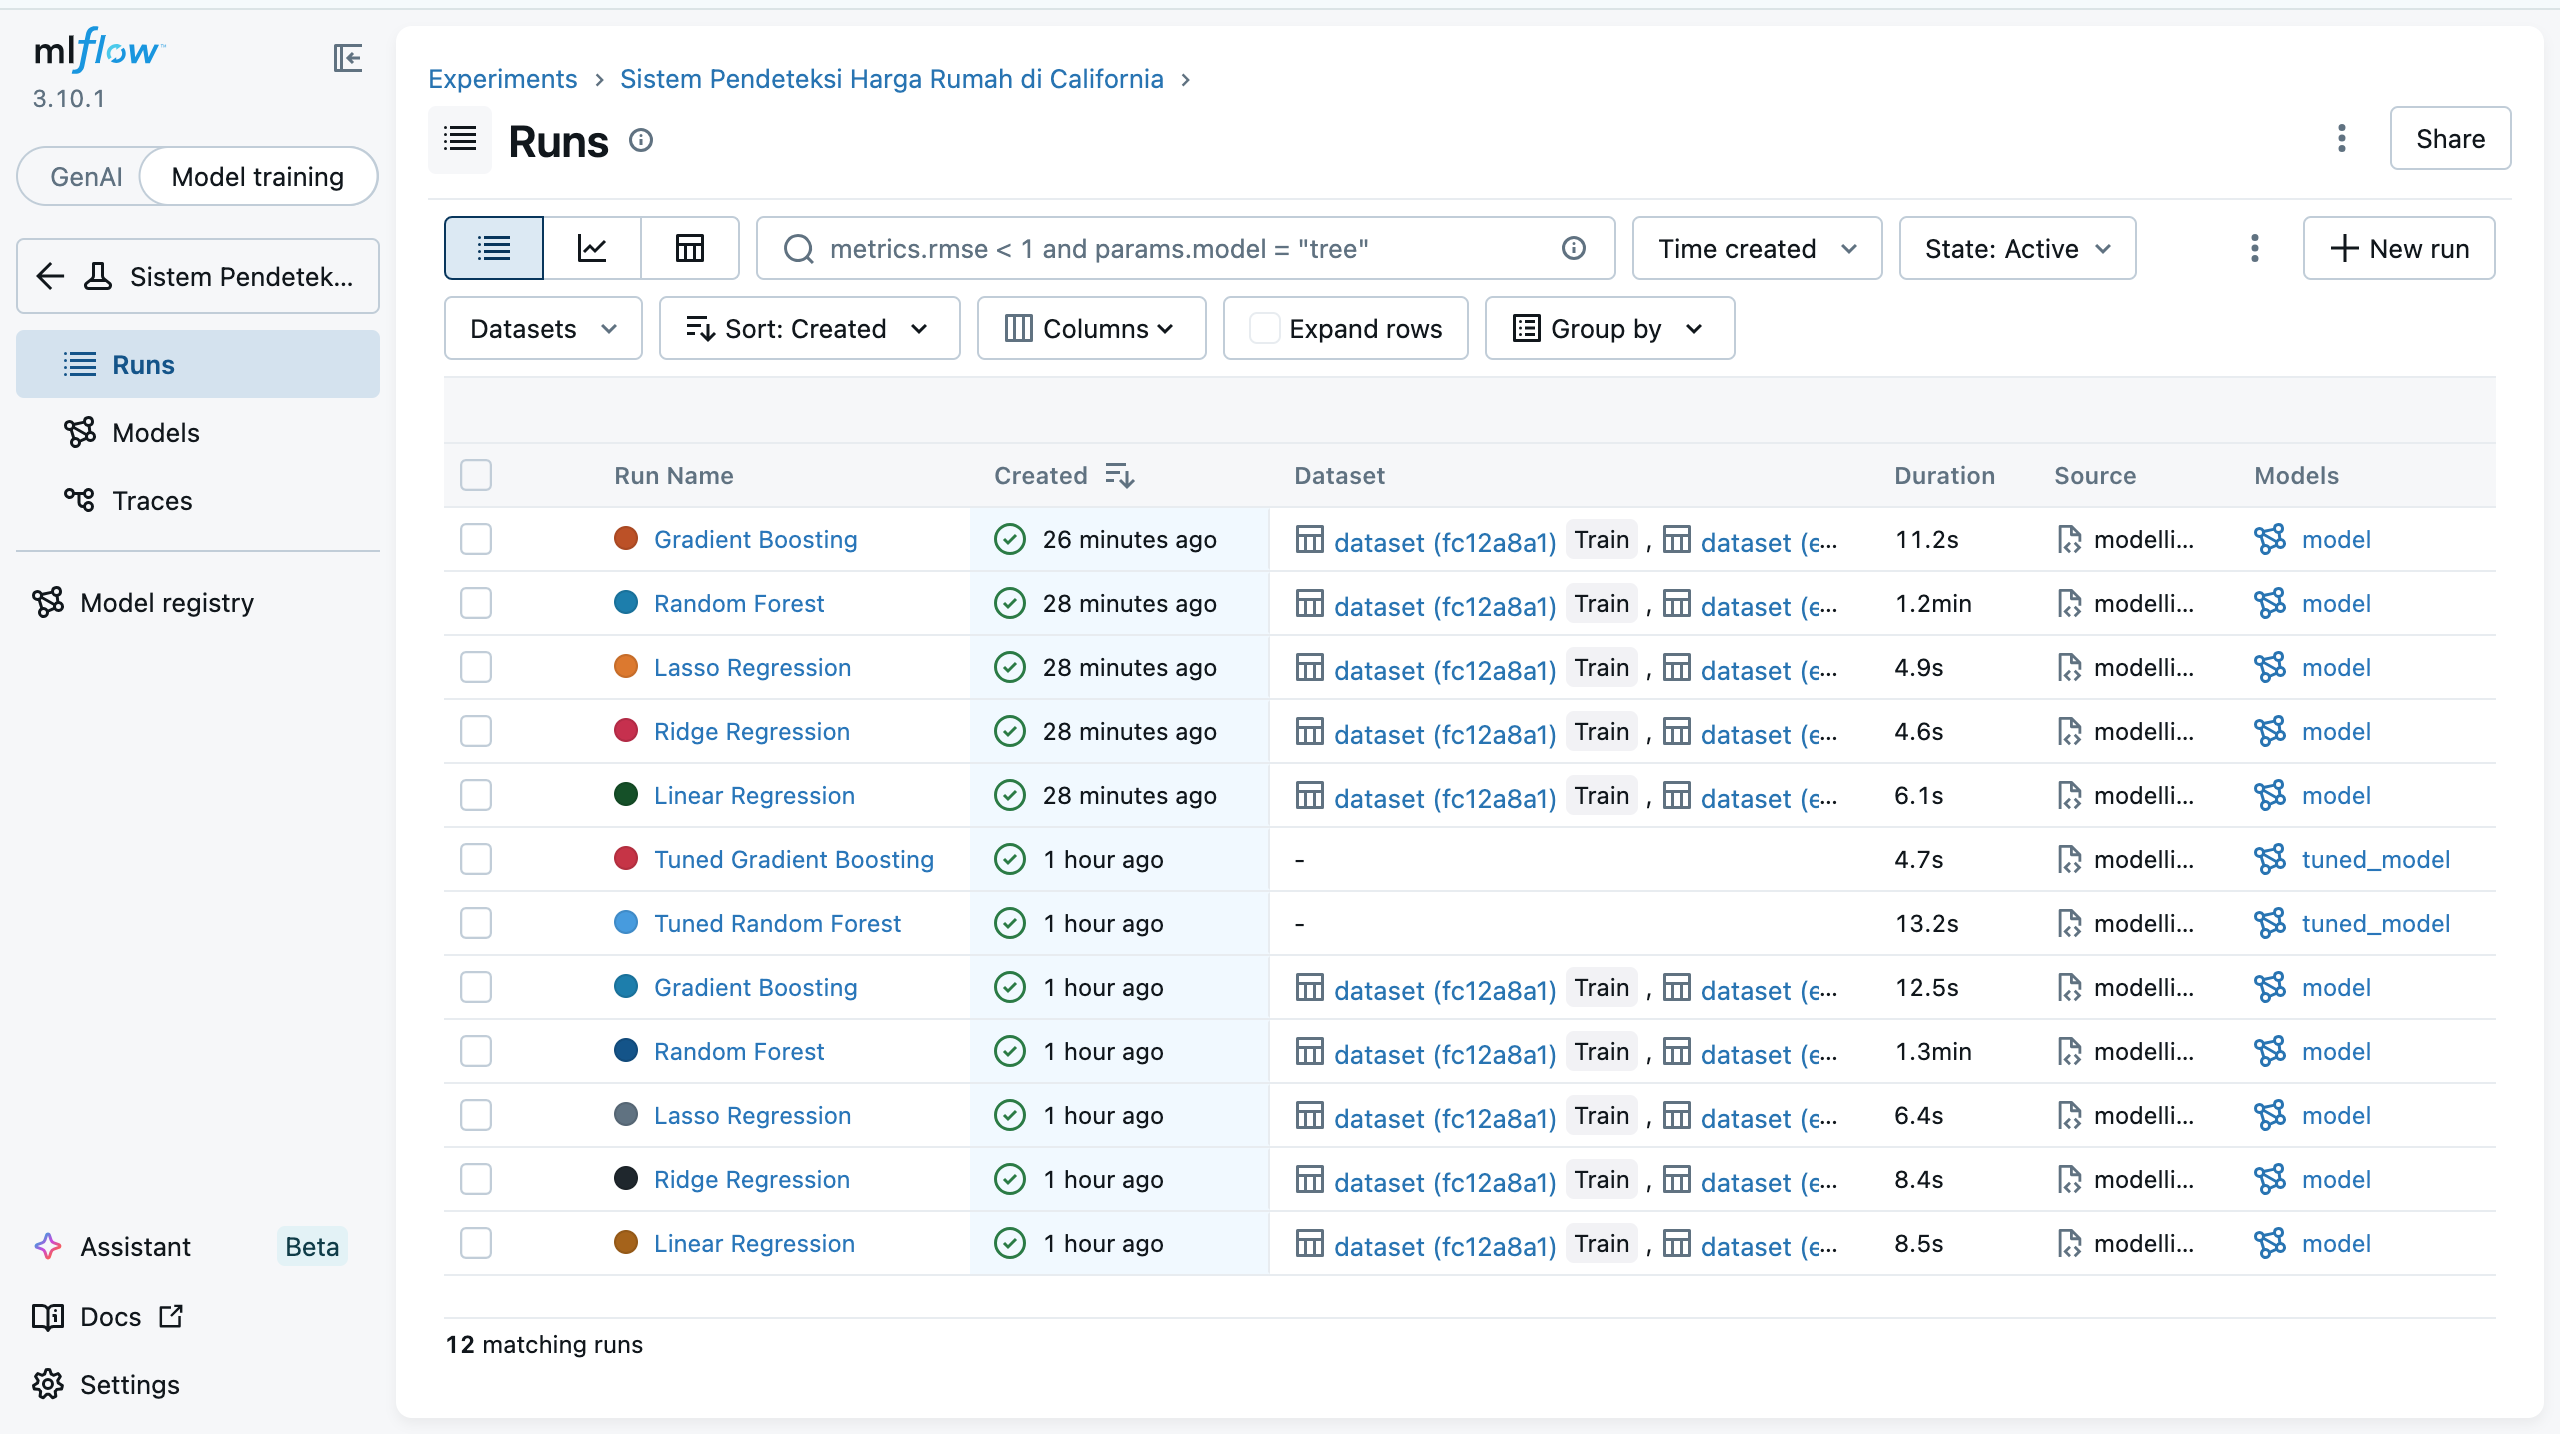
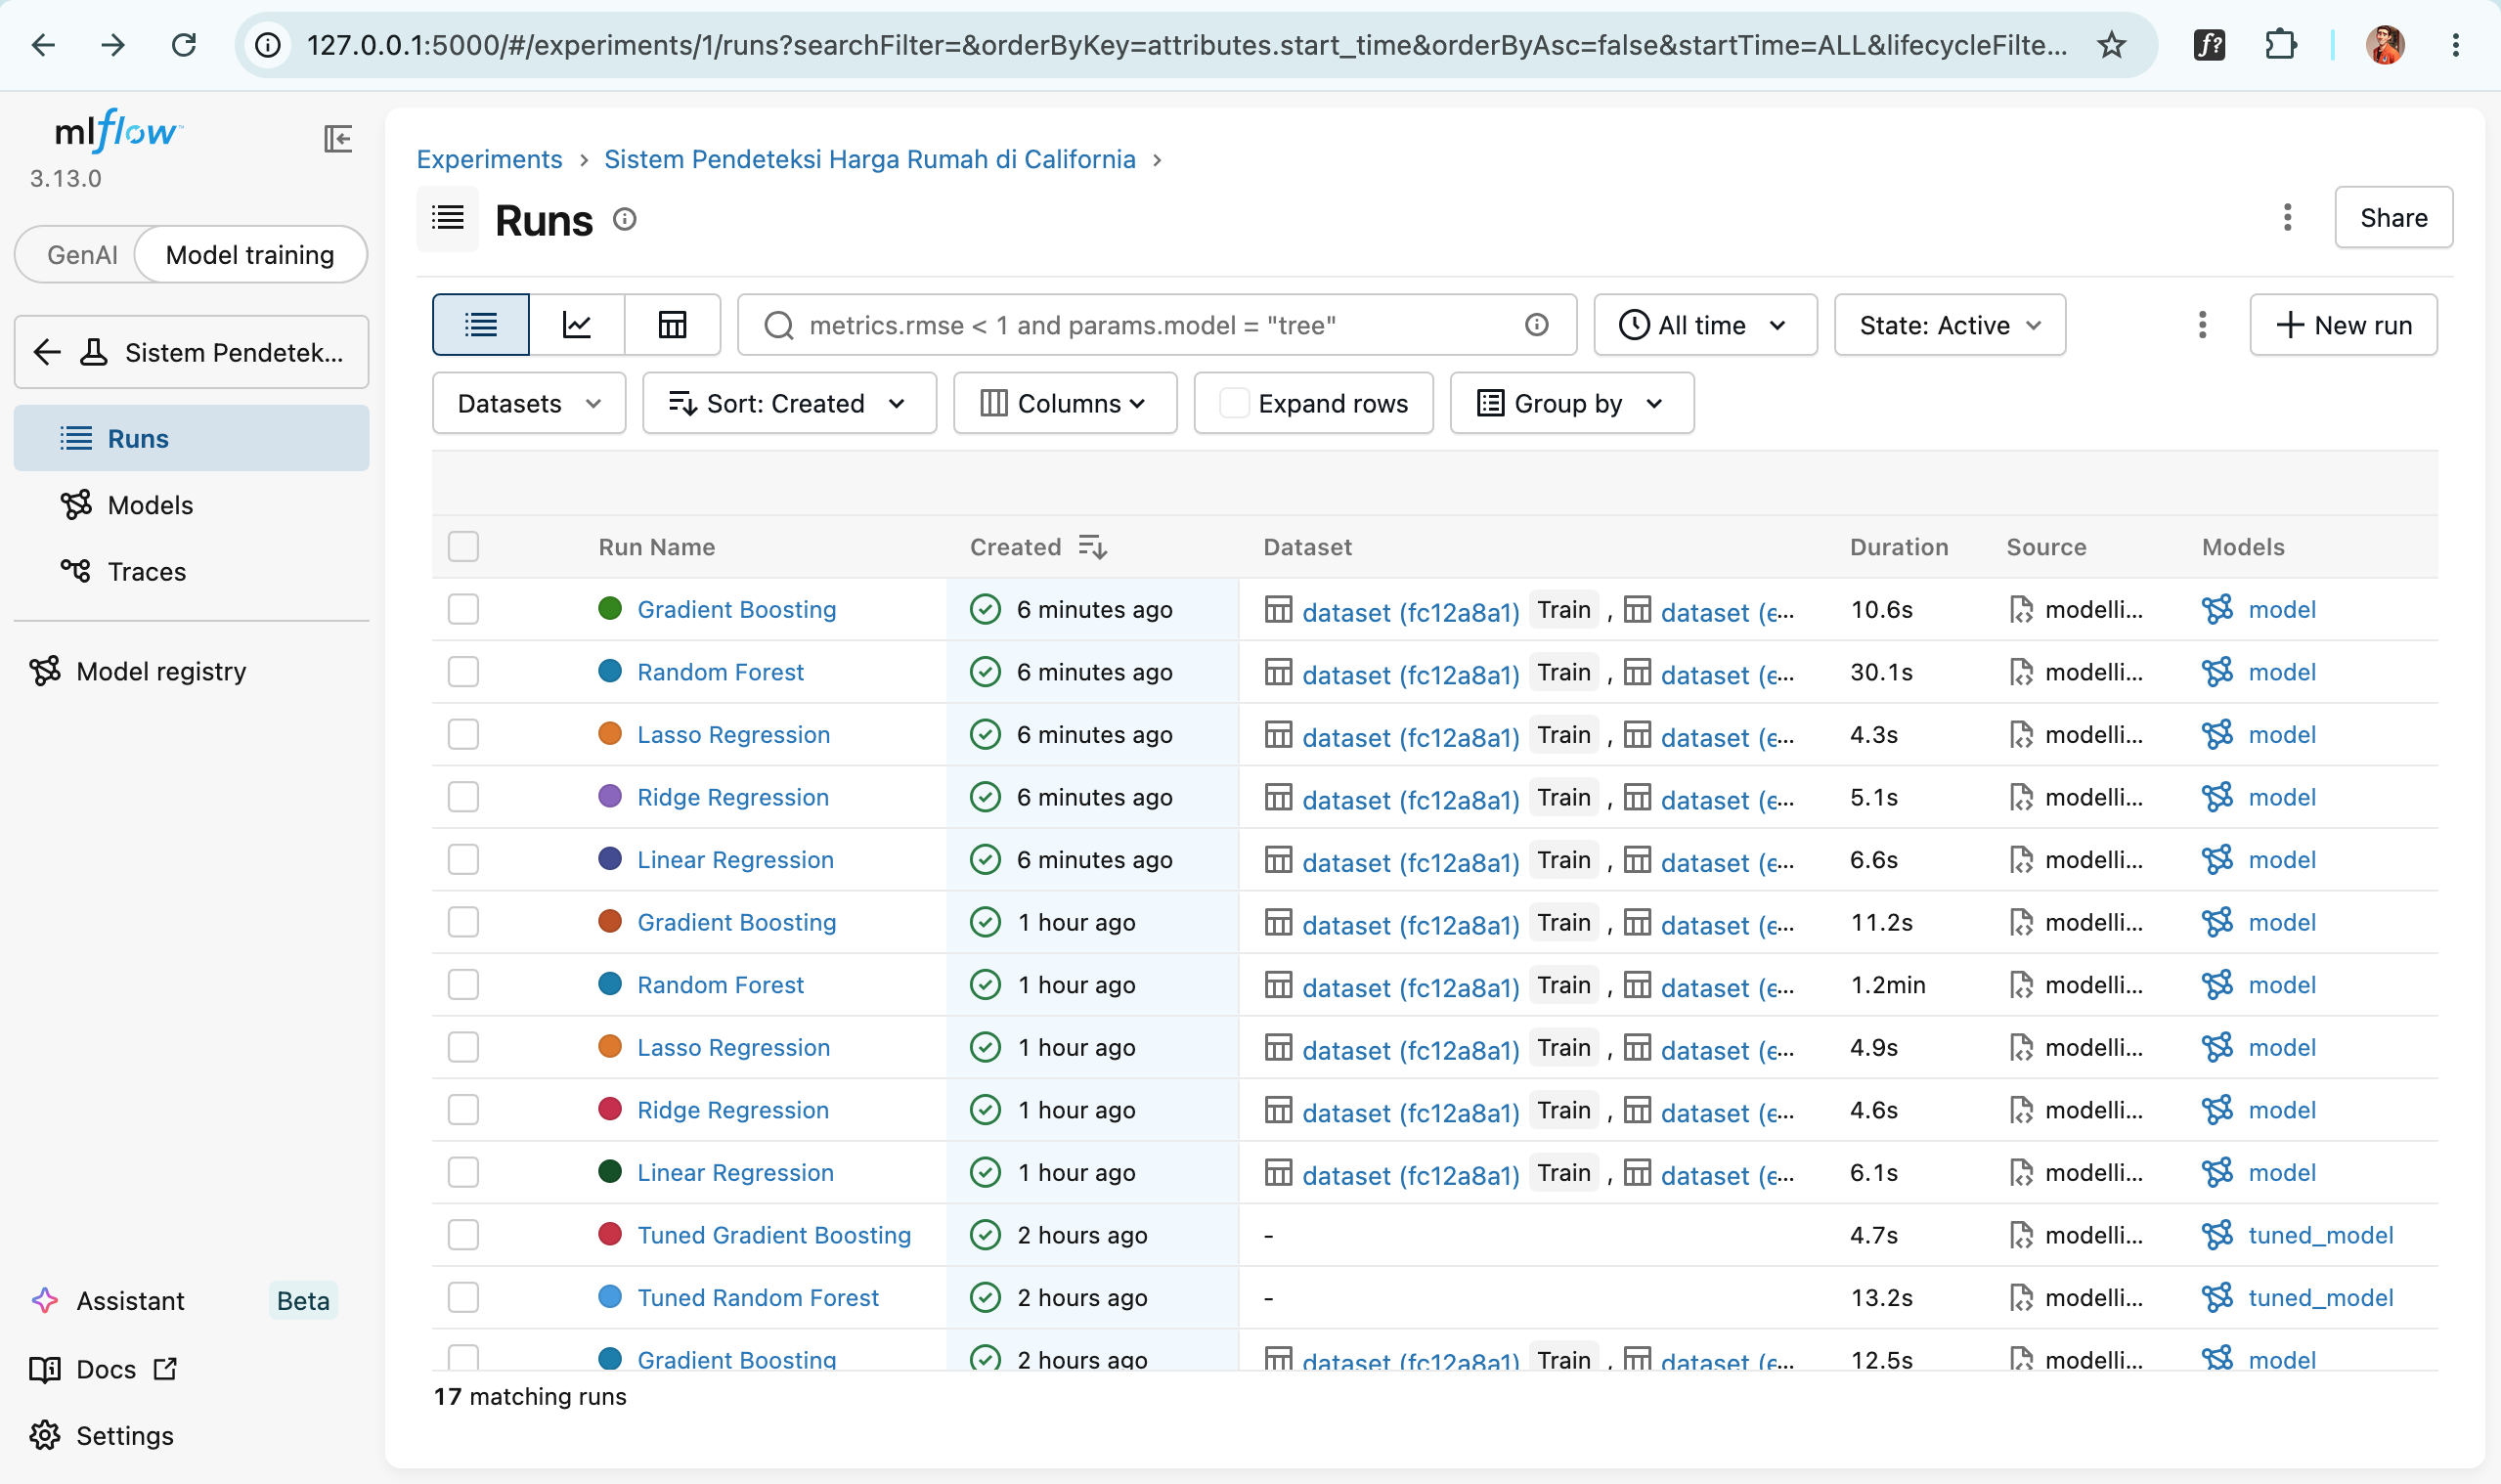
perubahan dir

diff --git a/README.md b/README.md
@@ -1,0 +1,43 @@
+# 🏡 Sistem Pendeteksi Harga Rumah di California (End-to-End MLOps Pipeline)
+
+Proyek ini merupakan implementasi pipa MLOps (_Machine Learning Operations_) lengkap dari hulu ke hilir, mulai dari tahap _preprocessing_ data, eksperimen otomatis & _hyperparameter tuning_ menggunakan MLflow, otomatisasi pengujian dengan GitHub Actions (CI), hingga tahap produksi berupa _serving_ model kustom dan _monitoring_ real-time berbasis Prometheus & Grafana.
+
+---
+
+## Pengembang
+
+- **Nama:** Hervan Wandri
+- **Peran:** MLOps / Data Engineer
+- **Lingkungan Sistem:** macOS (MacBook Pro 2015) & Python 3.11
+
+---
+
+## 📁 Struktur Direktori Proyek
+
+```text
+SMSML_Wandrie/
+├── README.md                           <- Panduan utama proyek (File ini)
+├── Eksperimen_SML_Wandrie.txt          <- Laporan metrik & kesimpulan model terbaik
+├── Workflow-CI.txt                     <- Dokumentasi alur kerja otomatisasi CI
+├── Screenhoot_artifak.jpg
+├── California_raw/
+│   └── california_housing.csv          <- Berisi file dataset yang digunakan
+├── Membangun_model/
+│   ├── modelling.py                    <- Base training (5 algoritma dasar)
+│   ├── modelling_tuning.py             <- Hyperparameter Tuning (GridSearchCV)
+│   ├── requirements.txt                <- Daftar dependensi pustaka Python
+│   └── screenshoot_dashboard.jpg       <- Bukti antarmuka MLflow Tracking
+├── Monitoring dan Logging/
+│    ├── 1.bukti_serving                 <- Log/bukti endpoint exporter aktif
+│    ├── 2.prometheus.yml                <- Konfigurasi target scraping Prometheus
+│    ├── 3.prometheus_exporter.py        <- Script kustom penyiaran metrik (psutil)
+│    ├── 4.bukti monitoring Prometheus/  <- Screenshot metrik pada Prometheus UI
+│    ├── 5.bukti monitoring Grafana/     <- Screenshot dashboard visualisasi RAM/CPU
+│    ├── 6.bukti alerting Grafana/       <- Screenshot pemicuan alarm (Alerting Firing)
+│    └── 7.Inference.py                  <- Script pengujian prediksi data tunggal
+└── Membangun_model/
+   ├── california_housing_preprocessing/ <- Dataset hasil pembersihan & scaling
+   ├── Eksperimen_Hervan-Wandri.ipynb    <- Berisi file eksperimen .ipynb
+   ├── test_processed.csv                <- File test yang telah di ekspor
+   └── train_processed.csv               <- File train_processed yang telah di ekspor
+```